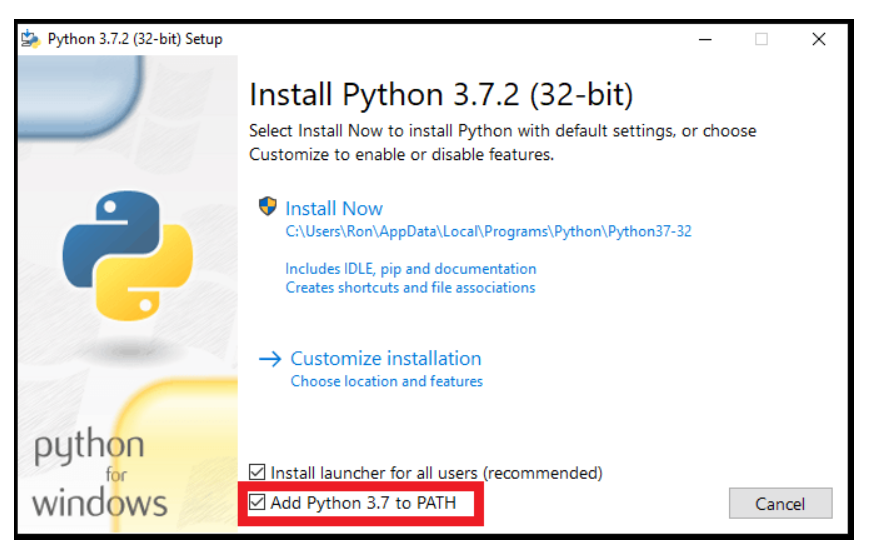
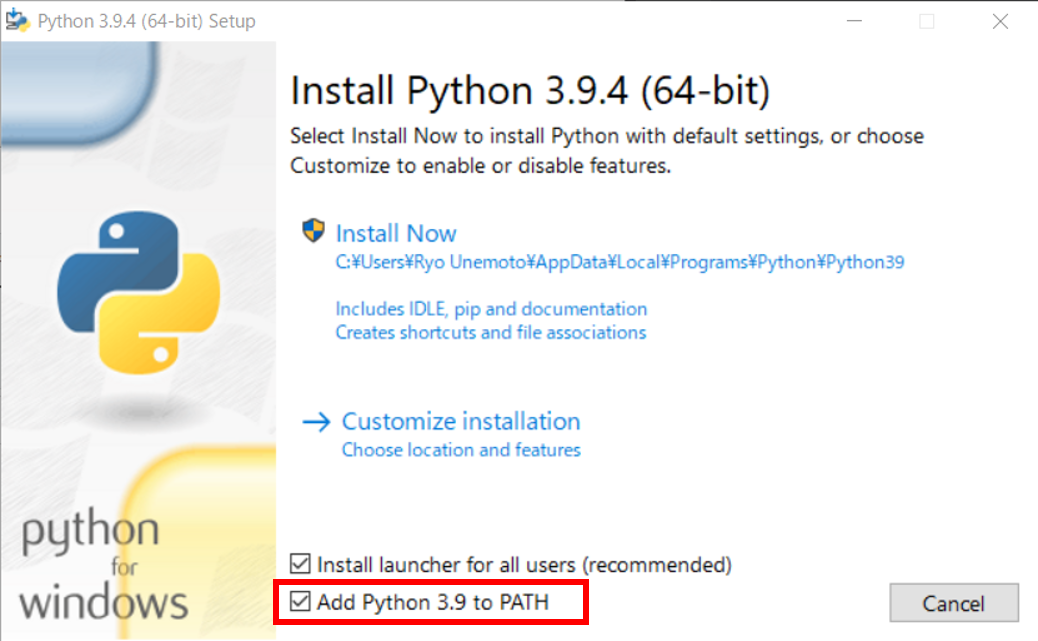
update windows installation

diff --git a/content/en/docs/Installation/Windows/_index.md b/content/en/docs/Installation/Windows/_index.md
@@ -6,16 +6,19 @@ description: >
   Installation Guide for Windows
 ---
 
-## Installation Guide
-1. Download & Install Python 3.7 64 bit from the [official website](https://www.python.org/ftp/python/3.7.8/python-3.7.8-amd64.exe). Check out this great installation guide if you need some help! During the install option, please make your python installation is referenced in your PATH (see picture below!)
+## Quick Installation Guide
+1. Download & Install Python **3.9** 64 bit from the [official website](https://www.python.org/ftp/python/3.9.4/python-3.9.4-amd64.exe). During the install option, please make your python installation is referenced in your PATH (see picture below!)
 ![](python-path.png)
 
-1. Download & Install the Webots version 2020.a revision 1 from their [official repository](https://github.com/cyberbotics/webots/releases/download/R2020a-rev1/webots-R2020a-rev1_setup.exe).
+1. Download & Install the Webots version **2021.a** from their [official repository](https://github.com/cyberbotics/webots/releases/download/R2021a/webots-R2021a_setup.exe).
 
-1. Download and extract the latest Erebus [Release Build](https://github.com/Shadow149/RescueMaze/releases).
+1. Download and extract the latest Erebus [Release Build](https://gitlab.com/rcj-rescue-tc/erebus/erebus/-/releases).
+![](download_erebus.png)
+
 
 ## Run the environment
-Run the world.wbt file from `/game/worlds/newworld.wbt`, opening it in Webots.
+Double click to run the world.wbt file from `/game/worlds/world1.wbt`, opening it in Webots.
+The first time you run the simulator, it will automatically install the Python libraries needed to run the simulation, which may take some time.
 
 ## Common problems & Fixes
 * **If your Webots screen comes up blank/black.** Copy and the download, unzip to a separate folder before opening the world. It should then work.

diff --git a/content/en/docs/Installation/_index.md b/content/en/docs/Installation/_index.md
@@ -11,13 +11,13 @@ There are key components which make up the simulation system. These must each be
 
 ![](components.png)
 
-1. Webots Robot Simulator Version **2020.a revision 1** - the simulation environment
-1. Competition Controller - Custom controller to implement the rules and scoring.
-1. Python Version **3.7** - to write controllers for the robots
+1. Webots Robot Simulator Version **2021.a** - the simulation environment
+1. Competition Supervisor - Implement the rules and scoring
+1. Python Version **3.9** - to write controllers for the robots
 
-## System Requirements
-* OS-Linux: LTS version 18.04, Linux 64 (x86-64)
-* OS-Windows: Win 10, 8.1, 7 64 bit
+## Minimum System Requirements
+* OS-Linux: Ubuntu 18.04, 20.04  Linux 64 (x86-64)
+* OS-Windows: Win 10, 8.1 64 bit
 * OS-Mac: macOS 10.12 'Sierra' or newer (not tested on Catalina)
 * CPU: Dual Core 2 GHz
 * RAM: 2 GB
